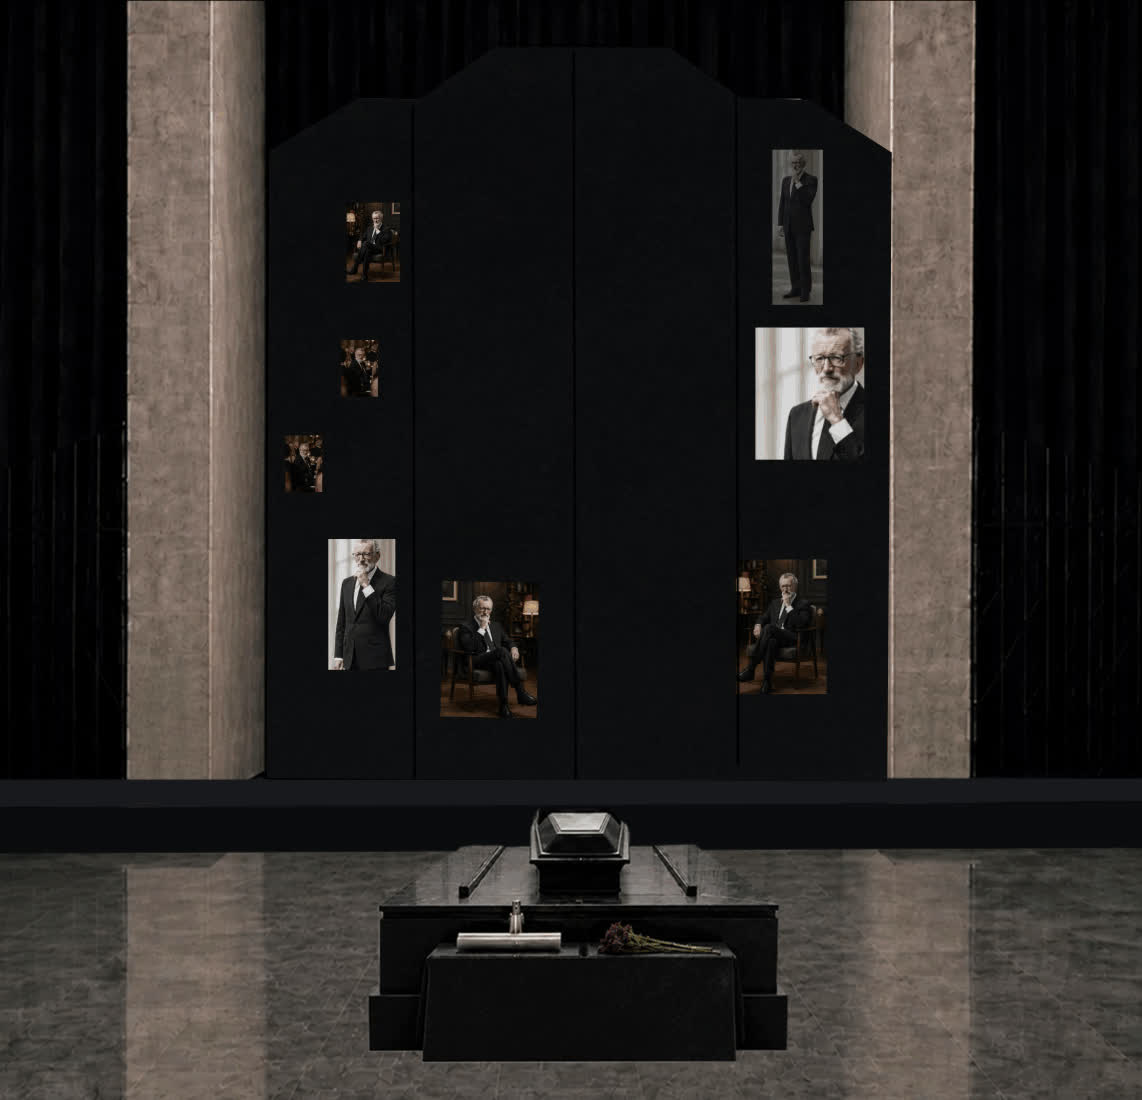
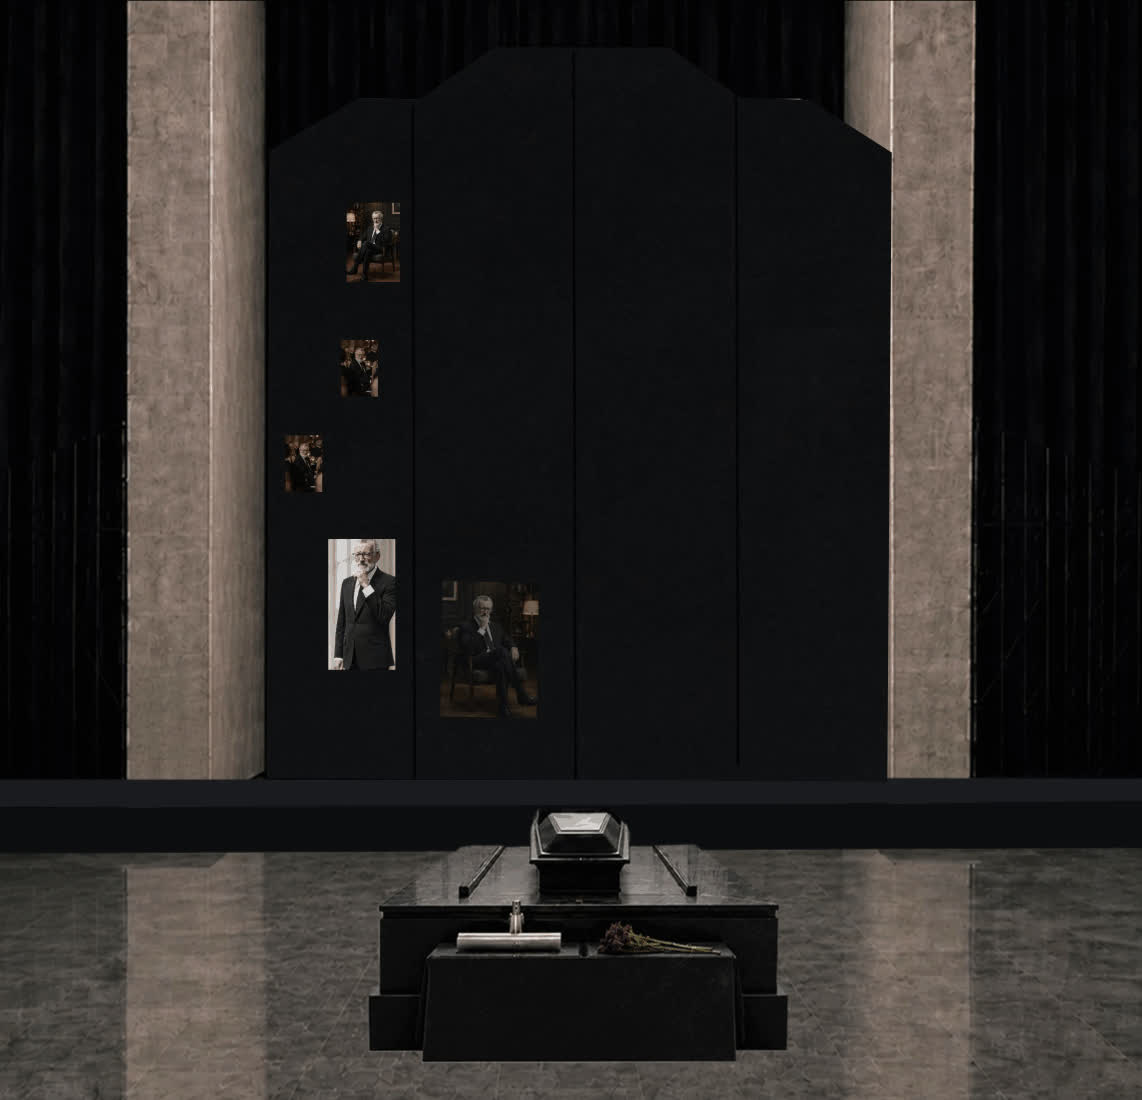
catalog+animations: new candle/slideshow gifs, remap pairs, deletions, reorder
- свечи (вместе/раздельно) и слайд-шоу (в ряд/на расстоянии) заменены новыми гифками
  дизайнера; у слайд-шоу теперь есть раздвижение (fullscreen-slideshow-apart)
- удалены: scene-22, scene-41, scene-42, photo-candles-noframe, floating-photos
- scene-39 перенесена на 2-е место; scene-16 без раздвижения
- индивидуальная яркость: scene-41/42 (удалены позже), photo-candles/framed-slideshow/flag

diff --git a/src/data/content.ts b/src/data/content.ts
@@ -123,11 +123,9 @@ const SPREAD_MAP: Record<string, string> = {
   'scene-38': 'scene-38-apart',
   'scene-39': 'scene-39-apart',
   'scene-40': 'scene-40-apart',
-  'scene-41': 'scene-41-apart',
-  'scene-42': 'scene-42-apart',
 };
 // Сцены, убранные из каталога.
-const DELETED = new Set<string>(['scene-22']);
+const DELETED = new Set<string>(['scene-22', 'scene-41', 'scene-42']);
 
 const basicScenes: Scene[] = [];
 for (let n = 1, num = basicVideos.length; n <= 42; n += 1) {
@@ -138,16 +136,23 @@ for (let n = 1, num = basicVideos.length; n <= 42; n += 1) {
 }
 
 const personalScenes: Scene[] = [
-  { id: 'photo-candles',         number: 1, tier: ['personal'], kind: 'video', title: 'Фото в рамке и свечи', spread: 'photo-candles-apart' },
-  { id: 'photo-candles-noframe', number: 2, tier: ['personal'], kind: 'video', title: 'Фото без рамки и свечи', spread: 'photo-candles-noframe-apart' },
-  { id: 'framed-slideshow',      number: 3, tier: ['personal'], kind: 'video', title: 'Слайд-шоу в рамке и свечи', spread: 'framed-slideshow-apart' },
-  { id: 'slide-noframe',         number: 4, tier: ['personal'], kind: 'video', title: 'Слайд-шоу без рамки' },
+  { id: 'photo-candles',    number: 1, tier: ['personal'], kind: 'video', title: 'Фото в рамке и свечи', spread: 'photo-candles-apart' },
+  { id: 'framed-slideshow', number: 2, tier: ['personal'], kind: 'video', title: 'Слайд-шоу в рамке и свечи', spread: 'framed-slideshow-apart' },
+  { id: 'slide-noframe',    number: 3, tier: ['personal'], kind: 'video', title: 'Слайд-шоу без рамки' },
 ];
 
 const customScenes: Scene[] = [
-  { id: 'fullscreen-slideshow', number: 1, tier: ['custom'], kind: 'video', title: 'Фильм о жизни на все экраны' },
-  { id: 'floating-photos',      number: 2, tier: ['custom'], kind: 'video', title: 'Слайд-шоу: всплывающие фото' },
-  { id: 'flag',                 number: 3, tier: ['custom'], kind: 'video', title: 'Портрет, эпитафия и флаг', spread: 'flag-apart' },
+  { id: 'fullscreen-slideshow', number: 1, tier: ['custom'], kind: 'video', title: 'Фильм о жизни на все экраны', spread: 'fullscreen-slideshow-apart' },
+  { id: 'flag',                 number: 2, tier: ['custom'], kind: 'video', title: 'Портрет, эпитафия и флаг', spread: 'flag-apart' },
 ];
 
-export const scenes: Scene[] = [...basicVideos, ...basicScenes, ...personalScenes, ...customScenes];
+// Порядок каталога. scene-39 вынесена на 2-е место (по просьбе).
+export const scenes: Scene[] = (() => {
+  const all = [...basicVideos, ...basicScenes, ...personalScenes, ...customScenes];
+  const i = all.findIndex((s) => s.id === 'scene-39');
+  if (i > 1) {
+    const [s] = all.splice(i, 1);
+    all.splice(1, 0, s);
+  }
+  return all;
+})();